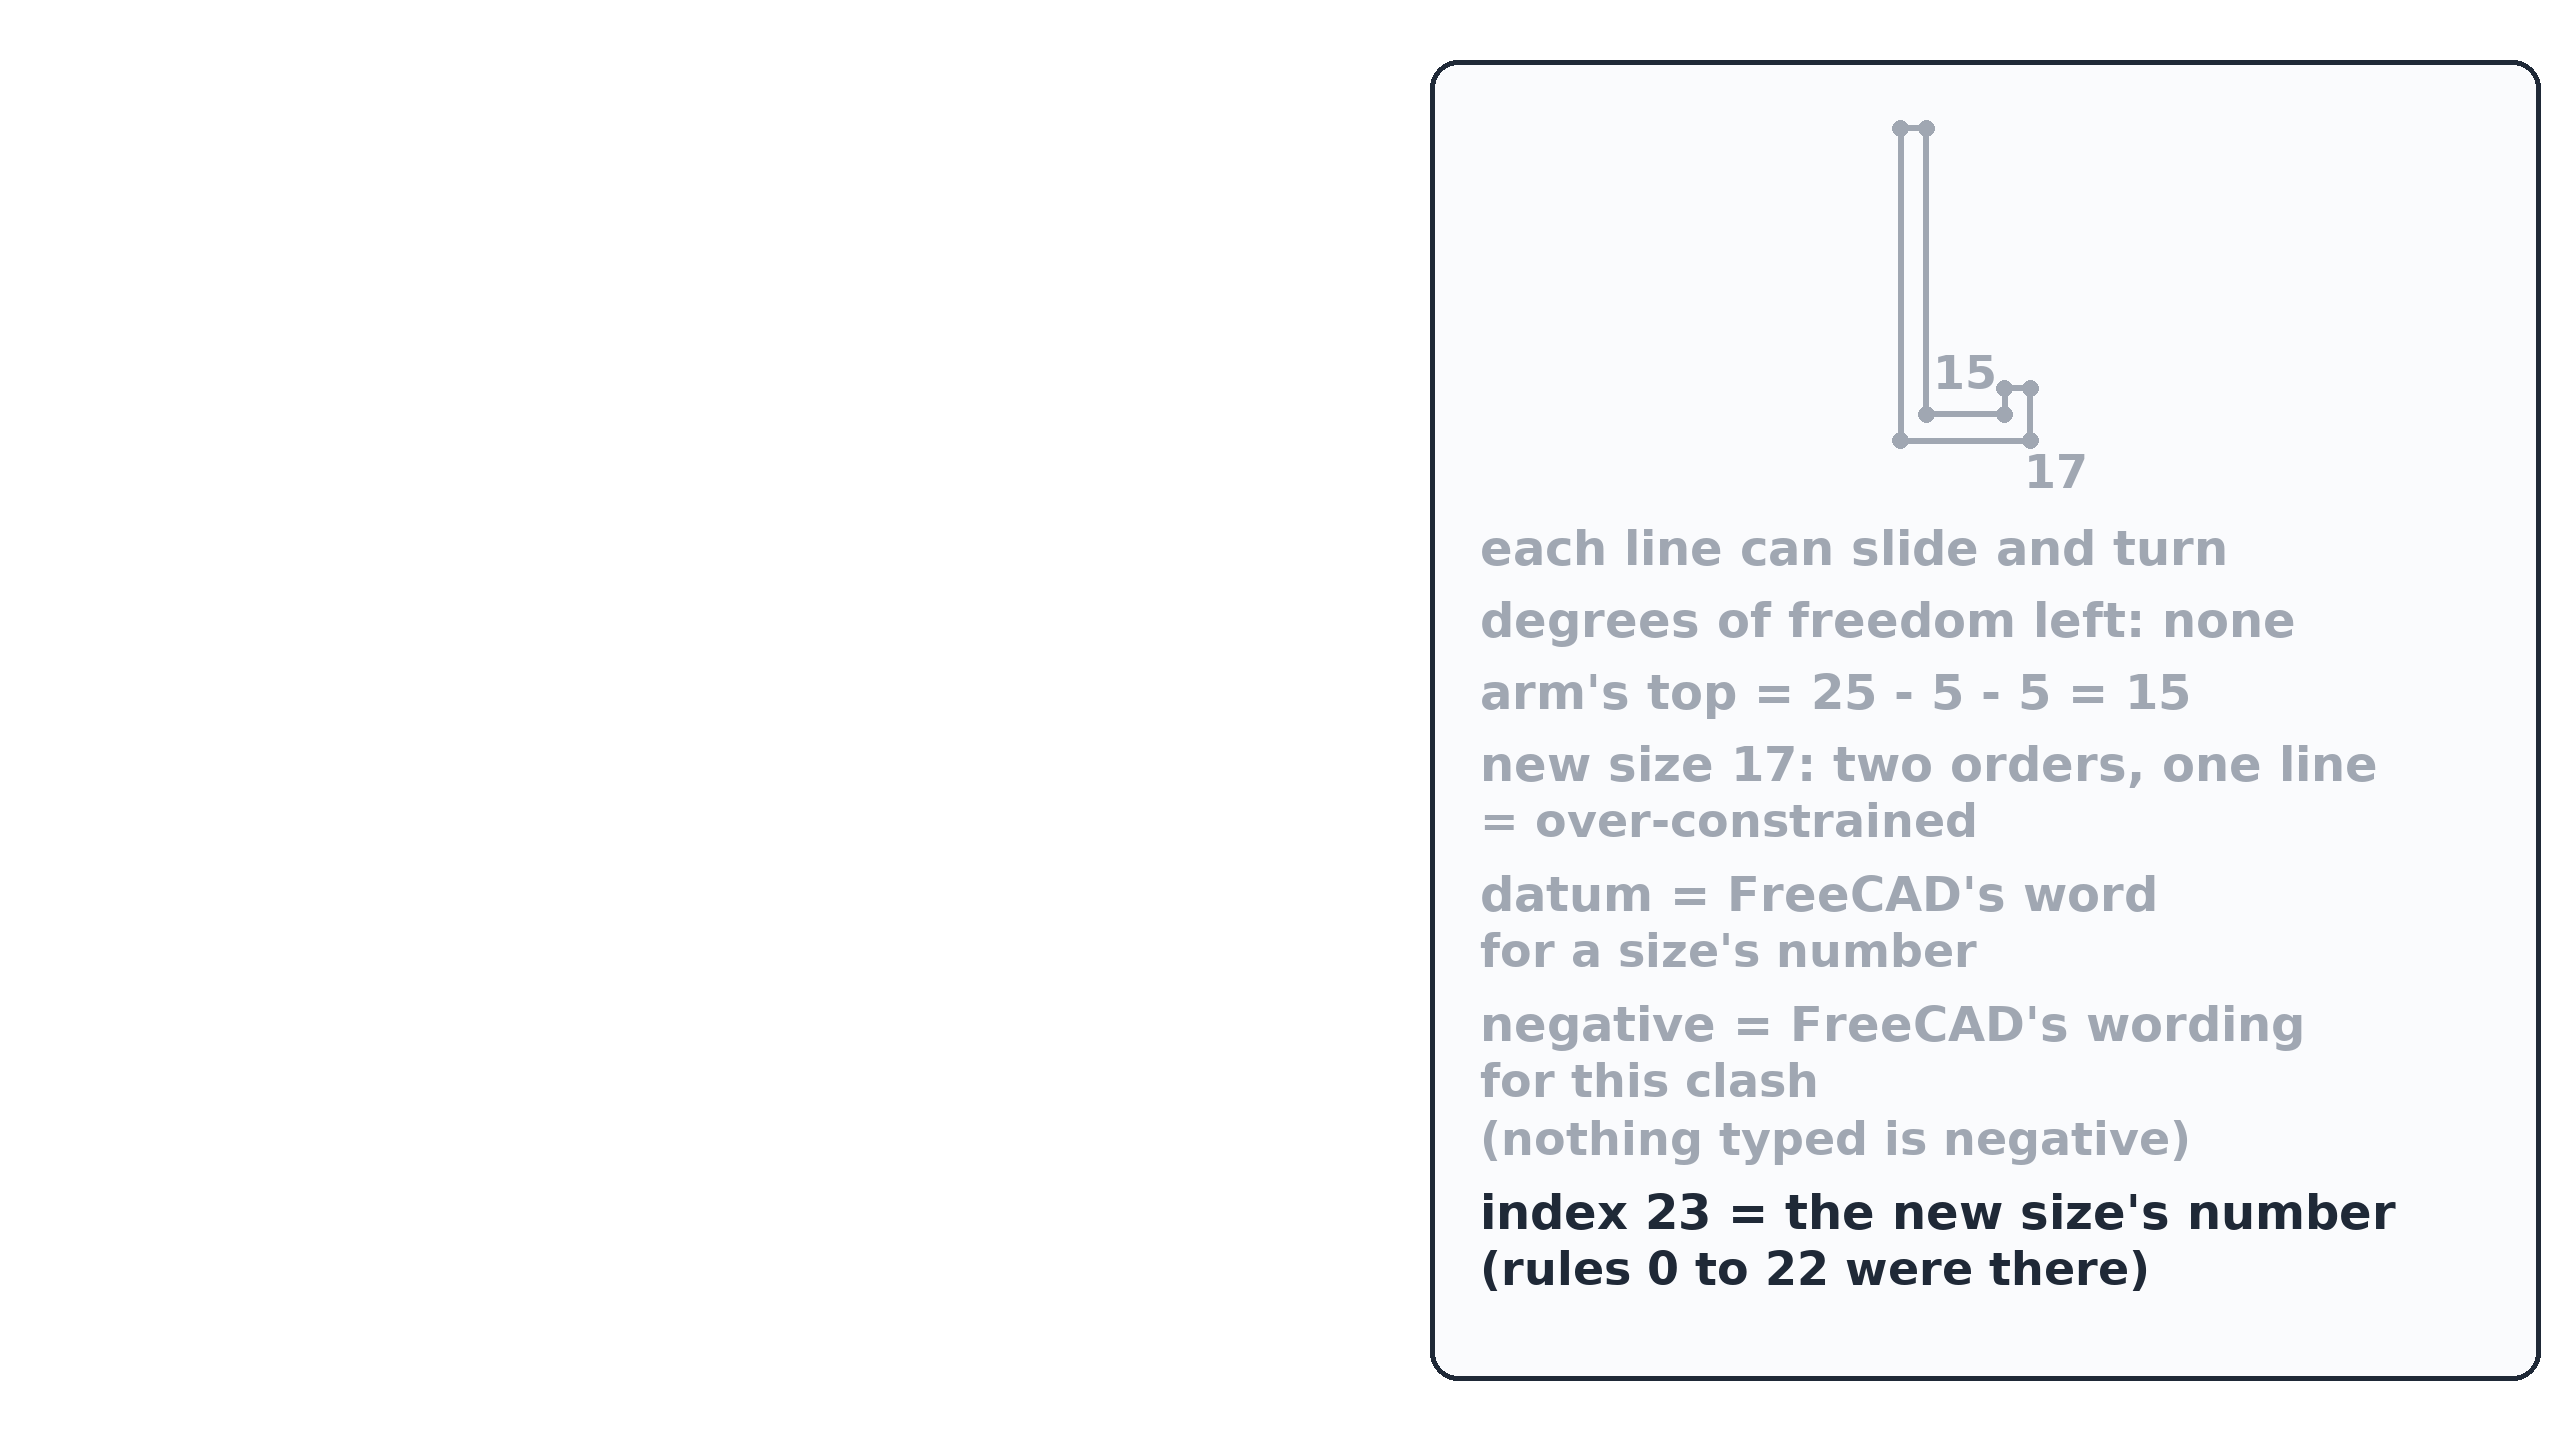
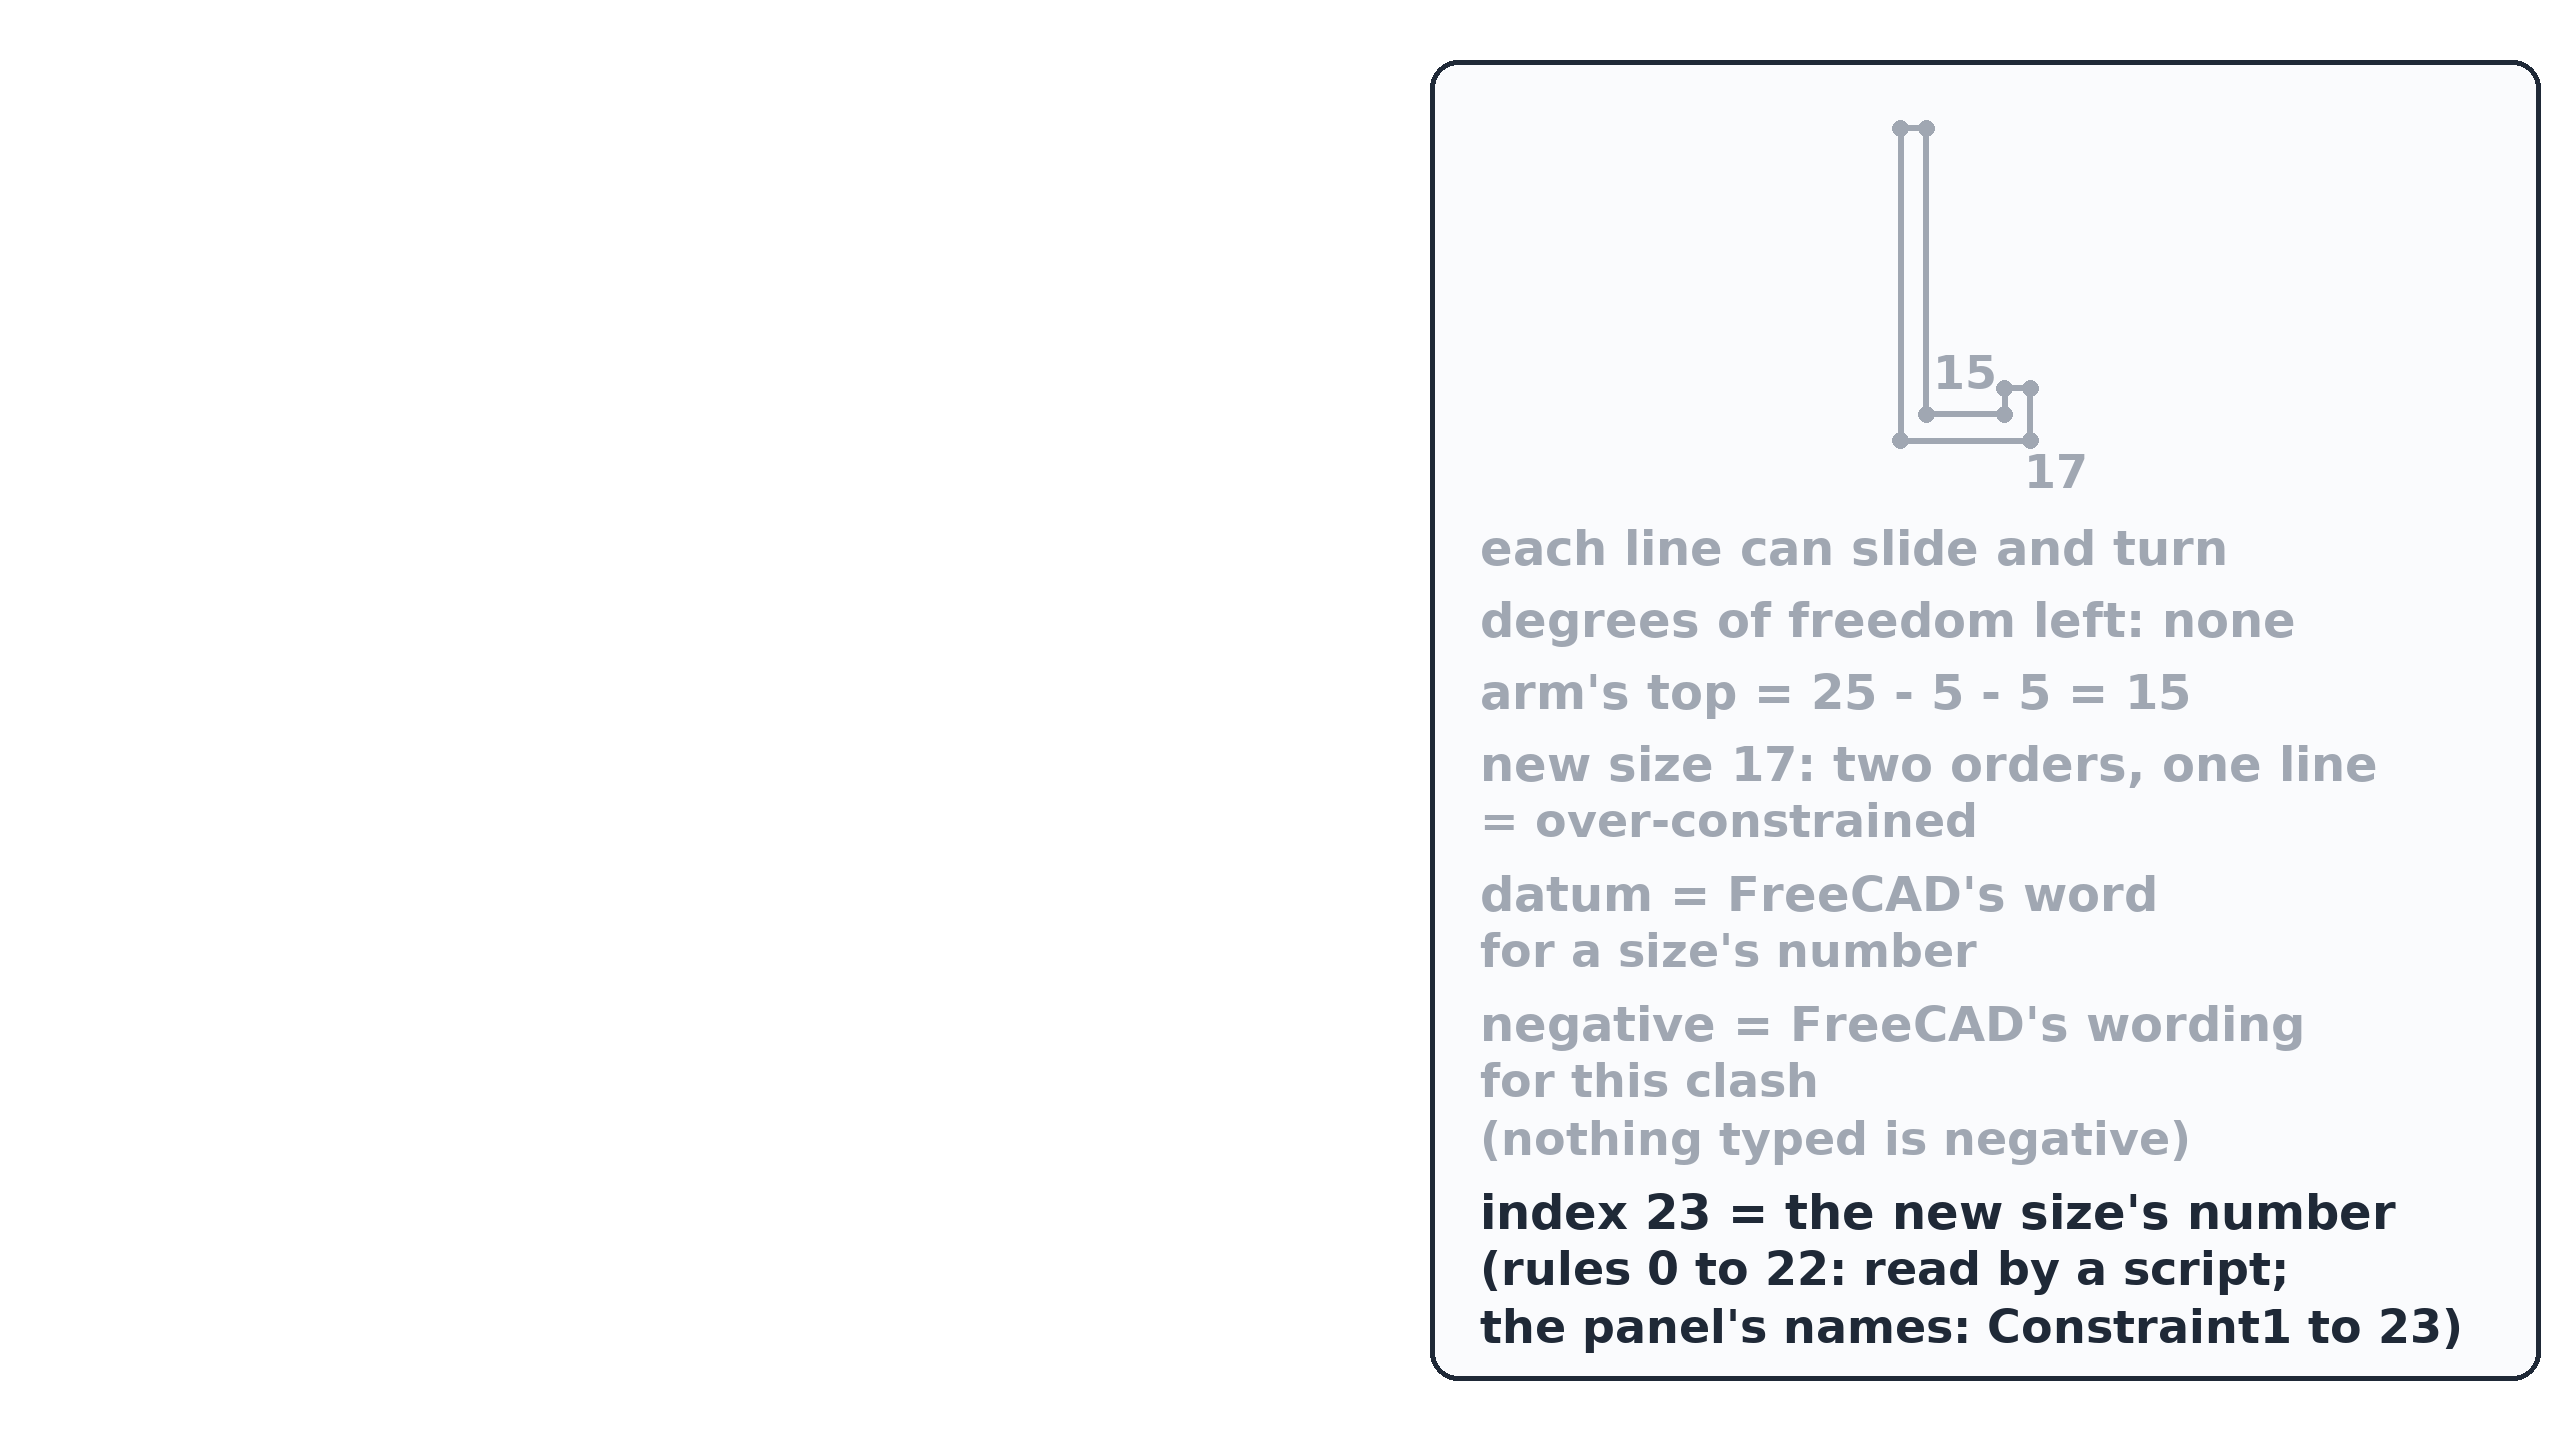
fx20 cut 3 cards (WATCH-fx20-c2): card-decode-7 names the count's source and squares it with the panel ('(rules 0 to 22: read by a script; / the panel's names: Constraint1 to 23)'; R1 call 3 printed 0..22, the panel names are index + 1); card-sofar-3 'for information' stamp widened to STAMP (650-110

Changed region(s): [[0.5625, 0.875, 0.9688, 0.9375]]

diff --git a/video/draw_fx20.py b/video/draw_fx20.py
@@ -200,7 +200,8 @@ DECODE = [  # one step about every 8 s, in the spoken order (SCRIPT F4)
     ('new size 17: two orders, one line', '= over-constrained'),
     ("datum = FreeCAD's word", "for a size's number"),
     ("negative = FreeCAD's wording", 'for this clash', '(nothing typed is negative)'),
-    ("index 23 = the new size's number", '(rules 0 to 22 were there)'),
+    # cut 3: the count's source named (R1's rule print, 0 to 22) and squared with the panel's 1-based names
+    ("index 23 = the new size's number", '(rules 0 to 22: read by a script;', "the panel's names: Constraint1 to 23)"),
 ]
 
 
@@ -235,6 +236,9 @@ def card_decode(step):
     save(im, f'card-decode-{step}.png')
 
 
+STAMP = (650, 1010, 1100, 1110)     # cut 3: wide enough for "for information" (it spilled past 660-1000)
+
+
 # --- F8: so far -------------------------------------------------------------------------------------------------------
 def card_sofar(step):
     """SCRIPT F8: 1 the four notes, the fourth crossed out, "one order too many"; 2 the shelf note 25 to 27, "change the
@@ -254,9 +258,9 @@ def card_sofar(step):
     if step >= 3:
         c3 = BLUE
         note(d, 200, 1000, 'arm 17', c3, fill=WHITE, w=420)
-        d.rectangle((660, 1010, 1000, 1110), outline=GREEN, width=7)
-        text(d, (830, 1060), 'for information', 46, GREEN, anchor='mm')
-        text(d, (1100, 1060), 'or add it as a Reference', 72, c3, anchor='lm')
+        d.rectangle(STAMP, outline=GREEN, width=7)
+        text(d, ((STAMP[0] + STAMP[2]) / 2, (STAMP[1] + STAMP[3]) / 2), 'for information', 46, GREEN, anchor='mm')
+        text(d, (1140, 1060), 'or add it as a Reference', 72, c3, anchor='lm')
     save(im, f'card-sofar-{step}.png')
 
 

diff --git a/tests/test_draw_fx20.py b/tests/test_draw_fx20.py
@@ -93,3 +93,19 @@ def test_overlays_cover_only_their_boxes(drawn):
     # SCRIPT 0.1: the banner + "Auto mode" notice (y 0-800 until ~24 s) covered across the whole left pane
     assert d.R1_TOP[1] == 0 and d.R1_TOP[3] >= 840 and d.R1_TOP[2] >= 1160
     assert drawn.LOG['ov-a-rep.png'] == []                # a plain panel, no text
+
+
+# cut 3 (WATCH-fx20-c2): the index count is labelled with its source and squares with the panel's 1-based names;
+# the "for information" stamp text sits inside its green outline
+def test_c3_index_card_names_its_source(drawn):
+    txt = ' '.join(s for s, _ in drawn.LOG['card-decode-7.png']).lower()
+    assert '(rules 0 to 22 were there)' not in txt
+    assert 'read by a script' in txt and 'constraint1' in txt
+
+
+def test_c3_sofar_stamp_text_inside_its_outline(drawn):
+    from PIL import ImageDraw
+    x0, y0, x1, y1 = drawn.STAMP
+    dr = ImageDraw.Draw(Image.new('RGB', (10, 10)))
+    bb = dr.textbbox(((x0 + x1) / 2, (y0 + y1) / 2), 'for information', font=drawn.font(drawn.B, 46), anchor='mm')
+    assert bb[0] >= x0 + 12 and bb[2] <= x1 - 12, (bb, drawn.STAMP)
